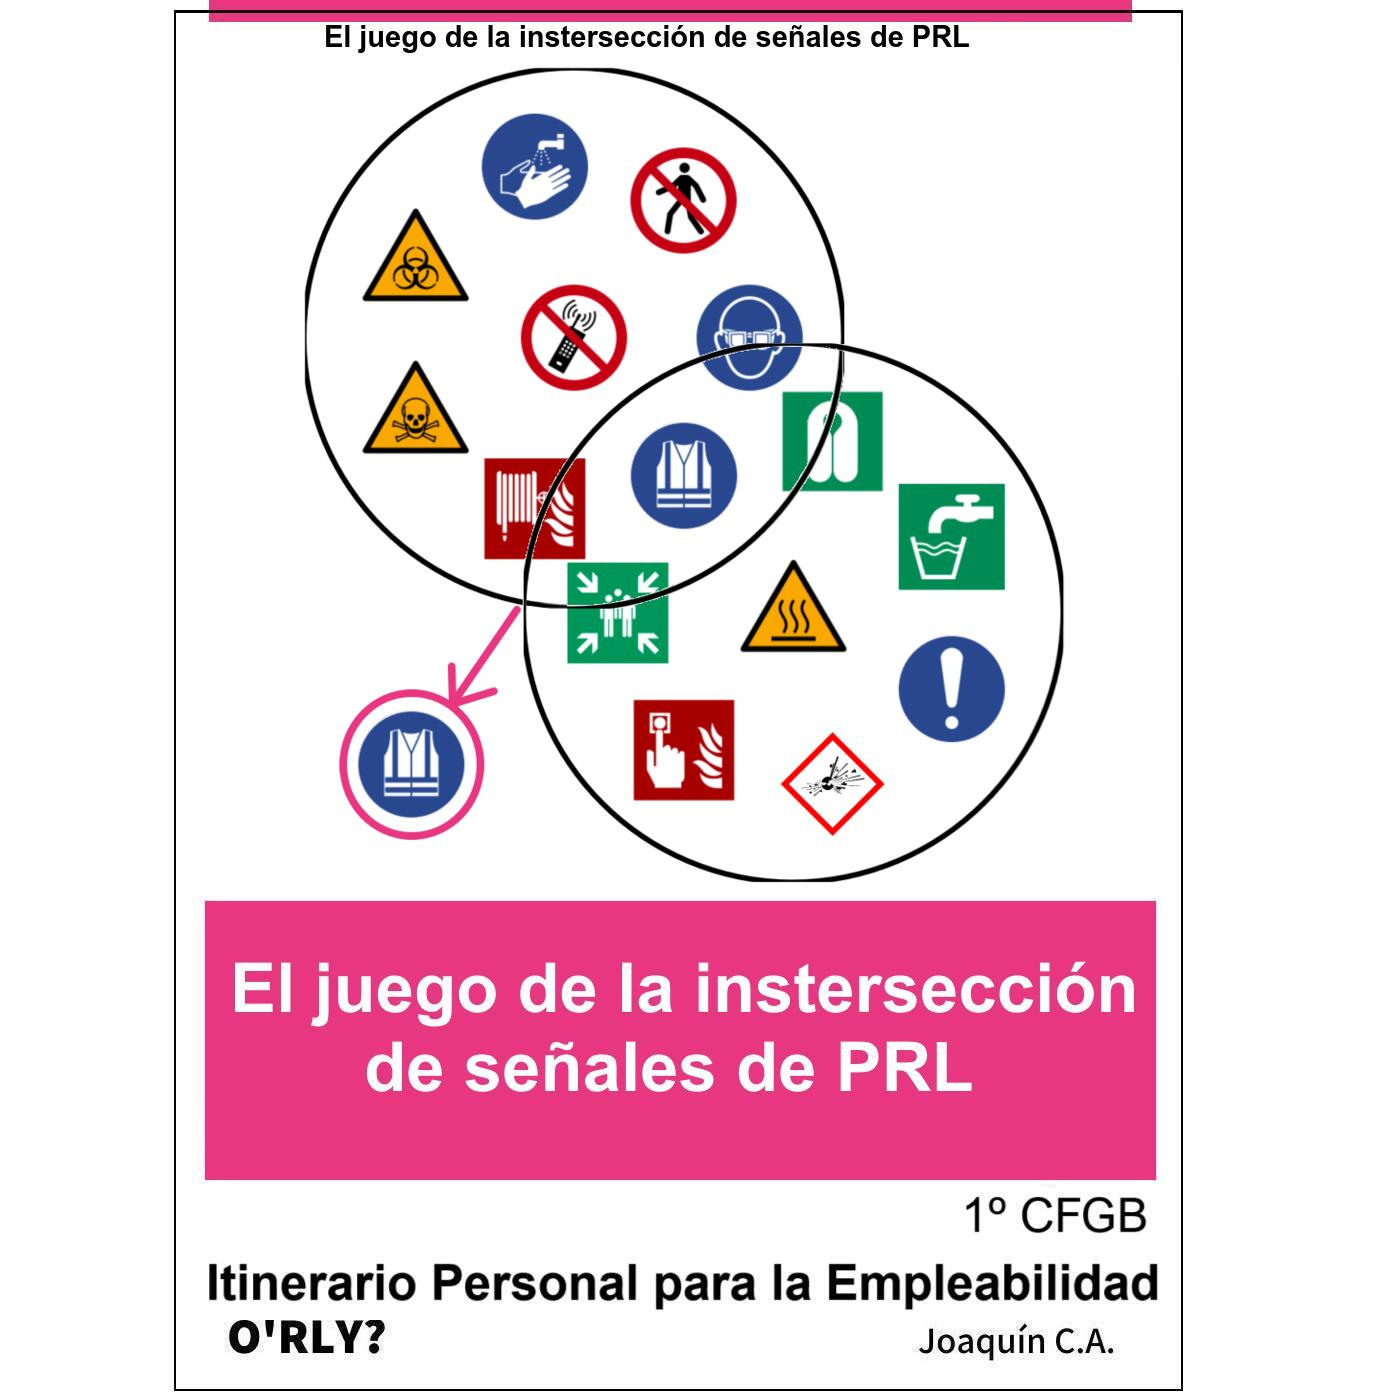
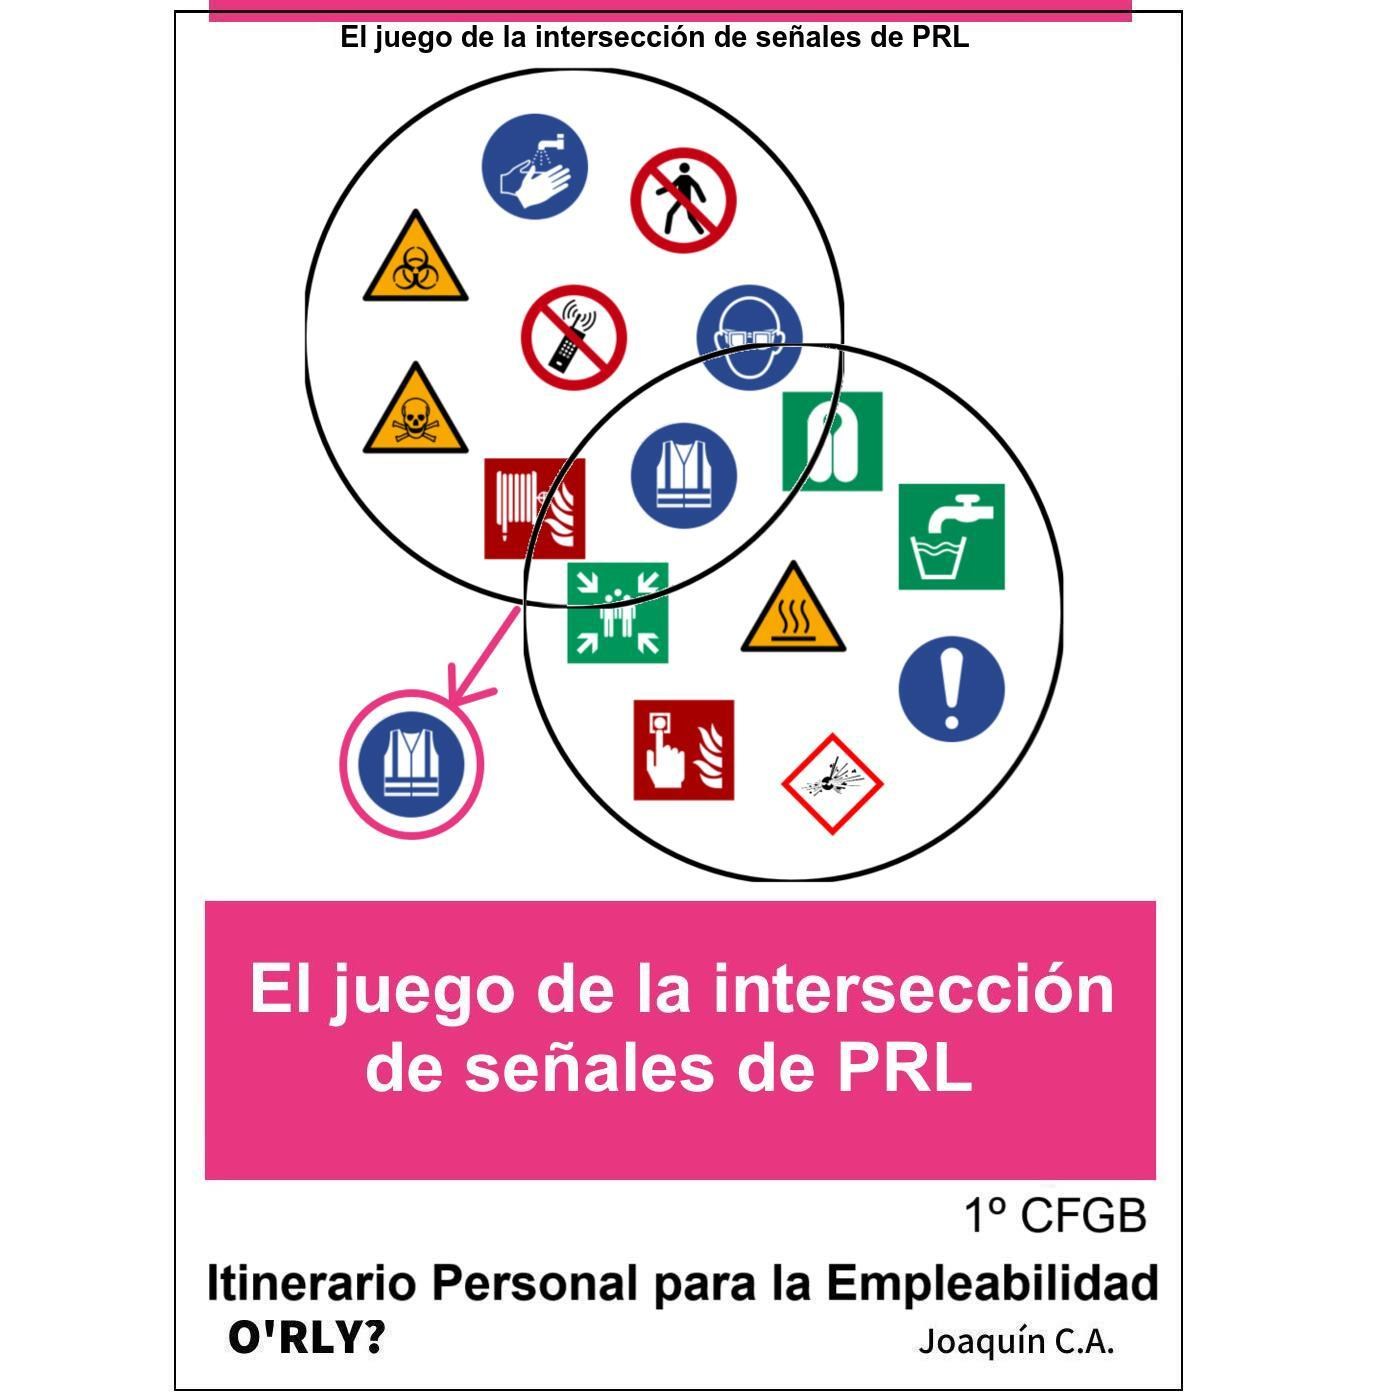
Quinto commit

Changed region(s): [[0.1536, 0.6757, 0.8293, 0.7371], [0.215, 0.0, 0.3993, 0.0614]]

diff --git a/crditos.html b/crditos.html
@@ -23,7 +23,7 @@
 <header id="header" ><div id="headerContent">El juego de la intersección de señales de PRL</div></header>
 <nav id="siteNav">
 <ul>
-   <li><a href="index.html" class="daddy main-node">El juego de la instersección de señales de PRL</a></li>
+   <li><a href="index.html" class="daddy main-node">El juego de la intersección de señales de PRL</a></li>
    <li><a href="secuencia_didctica.html" class="no-ch">Secuencia Didáctica</a></li>
    <li><a href="gua_didctica.html" class="no-ch">Guía Didáctica</a></li>
    <li id="active"><a href="crditos.html" class="active no-ch">Créditos</a></li>
@@ -85,7 +85,7 @@
 </tr>
 </tbody>
 </table>
-<p style="text-align: center;">Este contenido fue creado con <a href="http://exelearning.net/">eXeLearning</a>, el editor libre y de fuente abierta diseñado para crear recursos educativos.</p></div><p class="exe-download-package-link"><a href="El_juego_de_la_insterseccin_de_seales.elp">Descargar el fichero .elp</a></p>
+<p style="text-align: center;">Este contenido fue creado con <a href="http://exelearning.net/">eXeLearning</a>, el editor libre y de fuente abierta diseñado para crear recursos educativos.</p></div><p class="exe-download-package-link"><a href="El_juego_de_la_interseccin_de_seales_de_PRL.elp">Descargar el fichero .elp</a></p>
 </div>
 </div>
 </div>

diff --git a/index.html b/index.html
@@ -23,7 +23,7 @@
 <header id="header" ><div id="headerContent">El juego de la intersección de señales de PRL</div></header>
 <nav id="siteNav">
 <ul>
-   <li id="active"><a href="index.html" class="active daddy main-node">El juego de la instersección de señales de PRL</a></li>
+   <li id="active"><a href="index.html" class="active daddy main-node">El juego de la intersección de señales de PRL</a></li>
    <li><a href="secuencia_didctica.html" class="no-ch">Secuencia Didáctica</a></li>
    <li><a href="gua_didctica.html" class="no-ch">Guía Didáctica</a></li>
    <li><a href="crditos.html" class="no-ch">Créditos</a></li>
@@ -36,7 +36,7 @@
 </div>
 <div id="main-wrapper">
 <section id="main">
-<header id="nodeDecoration"><h1 id="nodeTitle">El juego de la instersección de señales de PRL</h1></header>
+<header id="nodeDecoration"><h1 id="nodeTitle">El juego de la intersección de señales de PRL</h1></header>
 <article class="iDevice_wrapper textIdevice em_iDevice" id="id16">
 <div class="iDevice emphasis1" >
 <header class="iDevice_header iDevice_header_noIcon"><h1 class="iDeviceTitle">Introducción</h1></header>

diff --git a/gua_didctica.html b/gua_didctica.html
@@ -24,7 +24,7 @@
 <header id="header" ><div id="headerContent">El juego de la intersección de señales de PRL</div></header>
 <nav id="siteNav">
 <ul>
-   <li><a href="index.html" class="daddy main-node">El juego de la instersección de señales de PRL</a></li>
+   <li><a href="index.html" class="daddy main-node">El juego de la intersección de señales de PRL</a></li>
    <li><a href="secuencia_didctica.html" class="no-ch">Secuencia Didáctica</a></li>
    <li id="active"><a href="gua_didctica.html" class="active no-ch">Guía Didáctica</a></li>
    <li><a href="crditos.html" class="no-ch">Créditos</a></li>

diff --git a/secuencia_didctica.html b/secuencia_didctica.html
@@ -22,7 +22,7 @@
 <header id="header" ><div id="headerContent">El juego de la intersección de señales de PRL</div></header>
 <nav id="siteNav">
 <ul>
-   <li><a href="index.html" class="daddy main-node">El juego de la instersección de señales de PRL</a></li>
+   <li><a href="index.html" class="daddy main-node">El juego de la intersección de señales de PRL</a></li>
    <li id="active"><a href="secuencia_didctica.html" class="active no-ch">Secuencia Didáctica</a></li>
    <li><a href="gua_didctica.html" class="no-ch">Guía Didáctica</a></li>
    <li><a href="crditos.html" class="no-ch">Créditos</a></li>
